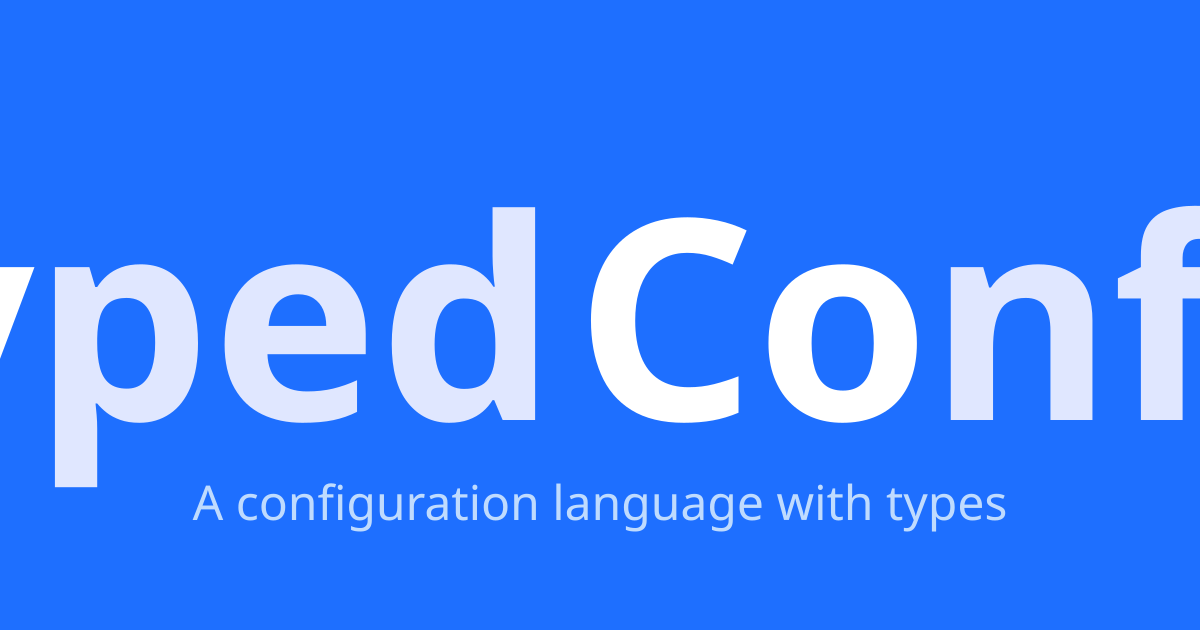
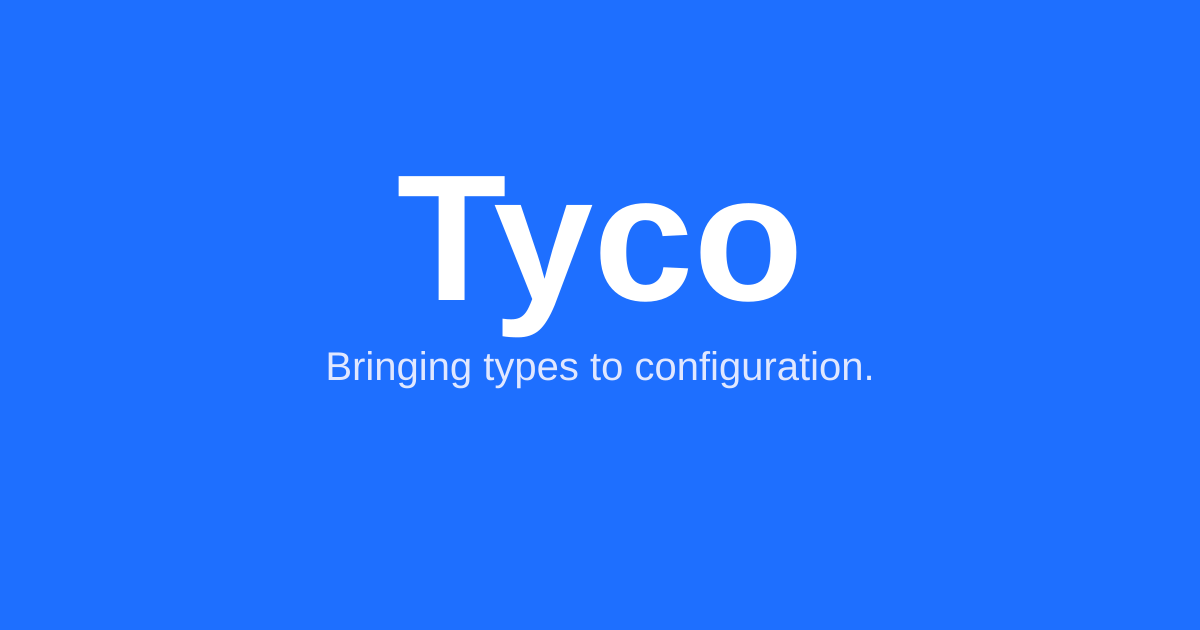
Simplify social preview image to show 'Tyco' with new tagline

Changed region(s): [[0.0, 0.2714, 1.0, 0.7841], [0.1542, 0.754, 0.8325, 0.8444]]

diff --git a/index.html b/index.html
@@ -4,7 +4,7 @@
   <meta charset="UTF-8">
   <meta name="viewport" content="width=device-width, initial-scale=1.0">
   <title>TypedConfig</title>
-  <meta name="description" content="A configuration language with types - simple, readable, and type-safe configuration files.">
+  <meta name="description" content="Bringing types to configuration.">
   
   <!-- Favicon -->
   <link rel="icon" type="image/svg+xml" href="favicon.svg">
@@ -14,7 +14,7 @@
   <meta property="og:type" content="website">
   <meta property="og:url" content="https://typedconfig.io/">
   <meta property="og:title" content="TypedConfig">
-  <meta property="og:description" content="A configuration language with types - simple, readable, and type-safe configuration files.">
+  <meta property="og:description" content="Bringing types to configuration.">
   <meta property="og:image" content="https://typedconfig.io/og-image.png">
   <meta property="og:image:width" content="1200">
   <meta property="og:image:height" content="630">
@@ -28,7 +28,7 @@
   <meta name="twitter:creator" content="@typedconfig">
   <meta name="twitter:url" content="https://typedconfig.io/">
   <meta name="twitter:title" content="TypedConfig">
-  <meta name="twitter:description" content="A configuration language with types - simple, readable, and type-safe configuration files.">
+  <meta name="twitter:description" content="Bringing types to configuration.">
   <meta name="twitter:image" content="https://typedconfig.io/og-image.png">
   <meta name="twitter:image:alt" content="TypedConfig - A configuration language with types">
   
